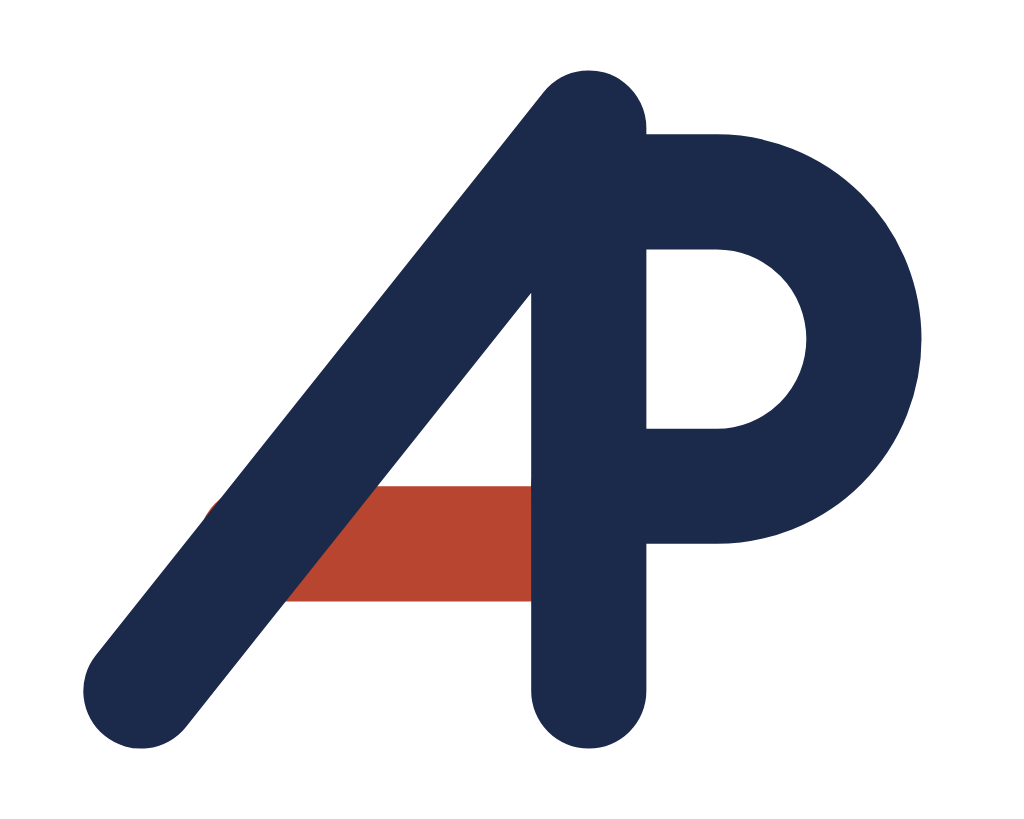
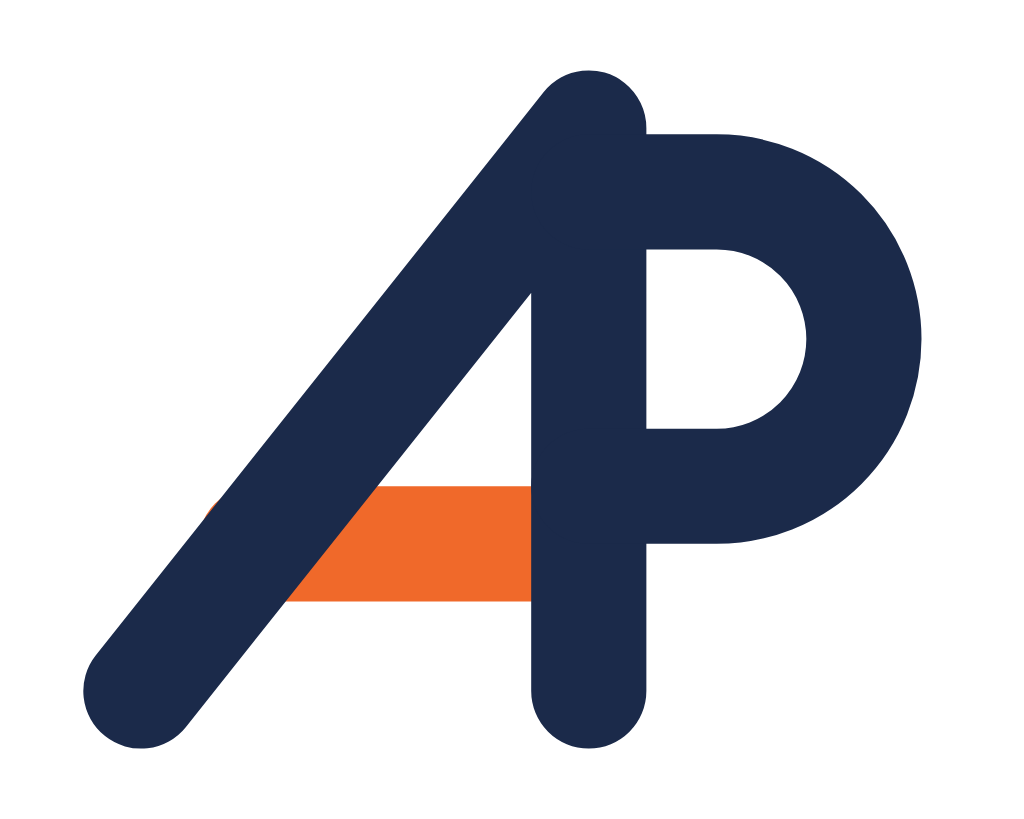
feat: rebranding de color (rojo ladrillo → naranja) y selector de idioma con desplegable
Primera parte de la Fase 5, acotada a header + logo + selector de idioma,
según el mockup de referencia. El resto de las páginas queda para
siguientes iteraciones.

Color:
- app/globals.css: --color-accent pasa de #B8452F a #BD4109 (fondo de
  botones), y --color-accent-ink de #D9764F a #F0692A (texto de acento
  sobre fondo oscuro). Ambos valores verificados por fórmula WCAG antes
  de fijarlos, no a ojo: accent sobre paper 4.66:1, bone sobre accent
  4.95:1, accent-ink sobre carbon 5.96:1 — los tres pasan AA para texto
  normal. accent sobre carbon (3.61:1) sigue sin valer como texto, mismo
  motivo que ya obligaba a la distinción accent/accent-ink con el rojo.
- qa/build-brand.mjs: BRICK renombrado a ACCENT, valor actualizado.
  Logo regenerado (npm run build:brand && npm run export:brand) — los 6
  SVG, el favicon, el apple-icon y los 12 PNG de public/brand/png/ vienen
  todos de la misma fuente, ninguno se retocó a mano.
- components/BrandLogo.tsx: el travesaño ya no hardcodea un hex propio,
  lee var(--color-accent-ink) — un cambio de paleta futuro no debería
  volver a tocar este archivo.
- docs/brand/README.md: tabla de paleta y contrastes reescrita con los
  valores reales medidos, más una nota explícita de que accent y
  accent-ink no son intercambiables (uno es fondo de botón, el otro es
  texto sobre oscuro, y ninguno cumple el rol del otro).

Selector de idioma:
- De dos botones ES|EN en línea a un disparador (bandera + código) con
[…]

Changed region(s): [[0.2812, 0.58, 0.5312, 0.7326]]

diff --git a/components/LocaleSwitcher.tsx b/components/LocaleSwitcher.tsx
@@ -1,5 +1,6 @@
 "use client";
 
+import { useEffect, useRef, useState } from "react";
 import { useLocale, useTranslations } from "next-intl";
 import { usePathname, useRouter } from "@/i18n/navigation";
 import { useParams, useSearchParams } from "next/navigation";
@@ -7,11 +8,36 @@ import { routing, LOCALE_CODES, type AppLocale } from "@/i18n/routing";
 import { resolveLocalizedDestination } from "@/i18n/localized-destination";
 
 /**
+ * Filete de bandera en miniatura, para el selector de idioma.
+ *
+ * Reutiliza el mismo patrón reducido que `FlagRule.tsx` (cantón azul marino
+ * 2/5 del ancho + resto en el acento) en vez de una bandera realista con
+ * estrellas y franjas. Es la misma razón documentada allí: en la papelería de
+ * un contratista sin licencia ni seguro confirmados por escrito, un emblema
+ * con estrellas y barras se lee como acreditación oficial. La miniatura no
+ * distingue español de inglés a propósito — los dos son variantes de EE. UU.
+ * (`es-US` / `en-US`, no España ni México), así que no hay una bandera de
+ * país distinta que poner para cada uno sin mentir sobre el origen.
+ */
+function MiniFlag() {
+  return (
+    <span className="flex h-3 w-4 overflow-hidden rounded-[2px]" aria-hidden="true">
+      <span className="h-full w-[38%] bg-[#1B2A4A]" />
+      <span className="h-full flex-1 bg-accent-ink" />
+    </span>
+  );
+}
+
+/**
  * Cambia de idioma traduciendo el LUGAR actual, no volviendo al inicio.
  *
  * Preserva: la página equivalente, la misma entidad dinámica (con su slug
  * traducido), los filtros de la query string y el hash. La lógica vive en
  * `i18n/localized-destination.ts`; aquí solo se navega.
+ *
+ * Fase 5: pasa de dos botones ES|EN en línea a un desplegable con disparador
+ * (bandera + código) y una lista de opciones (bandera + nombre completo),
+ * pedido explícitamente en el rediseño visual.
  */
 export default function LocaleSwitcher() {
   const locale = useLocale() as AppLocale;
@@ -23,7 +49,38 @@ export default function LocaleSwitcher() {
   // resuelta: el slug real hay que sacarlo de los params de la ruta.
   const routeParams = useParams();
 
+  const [open, setOpen] = useState(false);
+  const containerRef = useRef<HTMLDivElement>(null);
+  const triggerRef = useRef<HTMLButtonElement>(null);
+
+  // Cierra al hacer clic fuera del componente.
+  useEffect(() => {
+    if (!open) return;
+    const onPointerDown = (e: PointerEvent) => {
+      if (containerRef.current && !containerRef.current.contains(e.target as Node)) {
+        setOpen(false);
+      }
+    };
+    document.addEventListener("pointerdown", onPointerDown);
+    return () => document.removeEventListener("pointerdown", onPointerDown);
+  }, [open]);
+
+  // Escape cierra y devuelve el foco al disparador — mismo patrón que
+  // `MobileMenu`, a la escala de un menú de dos opciones.
+  useEffect(() => {
+    if (!open) return;
+    const onKeyDown = (e: KeyboardEvent) => {
+      if (e.key === "Escape") {
+        setOpen(false);
+        triggerRef.current?.focus();
+      }
+    };
+    document.addEventListener("keydown", onKeyDown);
+    return () => document.removeEventListener("keydown", onKeyDown);
+  }, [open]);
+
   const switchTo = (target: AppLocale) => {
+    setOpen(false);
     if (target === locale) return;
 
     const rawSlug = routeParams?.slug;
@@ -68,41 +125,54 @@ export default function LocaleSwitcher() {
   };
 
   return (
-    <div
-      role="group"
-      aria-label={t("languageSwitcherLabel")}
-      className="flex items-center overflow-hidden rounded-full border border-bone/30 font-mono text-xs uppercase tracking-wider text-bone"
-    >
-      {routing.locales.map((l) => {
-        const isCurrent = l === locale;
-        return (
-          <button
-            key={l}
-            type="button"
-            onClick={() => switchTo(l)}
-            aria-current={isCurrent ? "true" : undefined}
-            /*
-             * El nombre accesible dice qué hace el botón, no solo el código:
-             * "EN" a secas no comunica si es el idioma actual o el destino.
-             *
-             * El nombre del idioma se resuelve como clave anidada, NO con un
-             * `select` de ICU: los selectores ICU no admiten guiones, así que
-             * `{lang, select, es-US {...}}` lanzaba INVALID_MESSAGE en todas
-             * las páginas. Como clave de objeto, `es-US` sí es válido.
-             */
-            aria-label={
-              isCurrent
-                ? t("languageCurrent", { name: t(`languageName.${l}`) })
-                : t("languageSwitchTo", { name: t(`languageName.${l}`) })
-            }
-            className={`flex min-h-[44px] min-w-[44px] items-center justify-center px-3 transition-colors ${
-              isCurrent ? "bg-bone text-carbon" : "hover:bg-bone/10"
-            }`}
-          >
-            {LOCALE_CODES[l].toUpperCase()}
-          </button>
-        );
-      })}
+    <div ref={containerRef} className="relative">
+      <button
+        ref={triggerRef}
+        type="button"
+        onClick={() => setOpen((o) => !o)}
+        aria-haspopup="listbox"
+        aria-expanded={open}
+        aria-label={t("languageSwitcherLabel")}
+        className="flex min-h-[44px] items-center gap-2 rounded-full border border-bone/30 px-3 font-mono text-xs uppercase tracking-wider text-bone transition-colors hover:bg-bone/10"
+      >
+        <MiniFlag />
+        {LOCALE_CODES[locale].toUpperCase()}
+        {/* Chevron: gira al abrir, puramente decorativo. */}
+        <svg
+          viewBox="0 0 12 12"
+          aria-hidden="true"
+          className={`h-3 w-3 transition-transform ${open ? "rotate-180" : ""}`}
+        >
+          <path d="M2.5 4.5 6 8l3.5-3.5" stroke="currentColor" strokeWidth="1.4" fill="none" strokeLinecap="round" strokeLinejoin="round" />
+        </svg>
+      </button>
+
+      {open ? (
+        <div
+          role="listbox"
+          aria-label={t("languageSwitcherLabel")}
+          className="absolute right-0 top-[calc(100%+0.5rem)] z-50 min-w-[9rem] overflow-hidden rounded-lg border border-bone/20 bg-carbon-raised shadow-lg"
+        >
+          {routing.locales.map((l) => {
+            const isCurrent = l === locale;
+            return (
+              <button
+                key={l}
+                type="button"
+                role="option"
+                aria-selected={isCurrent}
+                onClick={() => switchTo(l)}
+                className={`flex min-h-[44px] w-full items-center gap-3 px-4 text-left text-sm transition-colors ${
+                  isCurrent ? "bg-bone/10 text-bone" : "text-bone/85 hover:bg-bone/10"
+                }`}
+              >
+                <MiniFlag />
+                {t(`languageName.${l}`)}
+              </button>
+            );
+          })}
+        </div>
+      ) : null}
     </div>
   );
 }

diff --git a/components/BrandLogo.tsx b/components/BrandLogo.tsx
@@ -38,9 +38,11 @@ interface BrandLogoProps {
  * Isotipo. Sin `width`/`height` fijos: la altura la fija el contenedor y el
  * `viewBox` mantiene la proporción, así el símbolo nunca se deforma.
  *
- * La A y el cuenco heredan `currentColor`; solo el travesaño conserva el rojo
- * de marca, que es la única nota de color que sobrevive a la inversión sobre
- * fondo oscuro.
+ * La A y el cuenco heredan `currentColor`; solo el travesaño conserva el
+ * naranja de marca (Fase 5: reemplaza al rojo ladrillo), que es la única
+ * nota de color que sobrevive a la inversión sobre fondo oscuro. El valor
+ * viene de `--color-accent-ink` (app/globals.css) en vez de un hex propio,
+ * para que un cambio de paleta futuro no tenga que tocar este archivo.
  *
  * Es TRAZO, no relleno: `fill="none"` con `strokeWidth` y remates redondos.
  * Quitar cualquiera de esos tres atributos no rompe nada visiblemente en el
@@ -67,9 +69,9 @@ function Mark({ size, accent = true }: { size: number; accent?: boolean }) {
         allí, se toca aquí — y al revés, esto no se toca sin tocar allí.
 
         El travesaño va PRIMERO: la riostra de la A pasa por encima y deja la
-        diagonal continua, con el rojo visible solo en el vano.
+        diagonal continua, con el naranja visible solo en el vano.
       */}
-      <path d="M20 42.5 H41.5" stroke={accent ? "#B8452F" : "currentColor"} />
+      <path d="M20 42.5 H41.5" stroke={accent ? "var(--color-accent-ink)" : "currentColor"} />
       <path d="M11 54 L46 10 V54" />
       <path d="M46 15 H56 A11.5 11.5 0 0 1 56 38 H46" />
     </svg>

diff --git a/app/globals.css b/app/globals.css
@@ -17,17 +17,26 @@
   --color-muted: #626963;
   --color-line: rgb(24 26 24 / 16%);
   --color-bone: #f8f6f0;
-  --color-accent: #b8452f;
-  --color-accent-hover: #9d3826;
+  --color-accent: #bd4109;
+  --color-accent-hover: #a13708;
   --color-success: #2f6b50;
   --color-error: #a83232;
 
   /*
-   * accent (#B8452F) sobre paper = 4.65:1 -> vale como texto normal.
-   * accent sobre carbon = 3.46:1 -> NO vale como texto (falla 4.5:1).
-   * accent-ink es la variante segura para texto sobre superficies oscuras.
+   * Fase 5 — rebranding de color (rojo ladrillo #B8452F → naranja).
+   * Valores medidos, no estimados a ojo contra el mockup de referencia:
+   *
+   * accent (#BD4109) sobre paper       = 4.66:1 -> vale como texto normal.
+   * accent (#BD4109) sobre carbon      = 3.61:1 -> NO vale como texto.
+   * bone sobre accent (fondo de botón) = 4.95:1 -> vale, texto claro en botón sólido.
+   * accent-ink sobre carbon            = 5.96:1 -> vale como texto normal.
+   *
+   * accent-ink es la variante viva para texto de acento sobre superficies
+   * oscuras (eyebrows, cifras, subrayados); accent es el tono profundo para
+   * fondos de botón sólido — el mismo naranja no puede cumplir los dos
+   * roles con fondo oscuro persistente, igual que antes con el rojo ladrillo.
    */
-  --color-accent-ink: #d9764f;
+  --color-accent-ink: #f0692a;
 
   --font-display: var(--font-space-grotesk), "Space Grotesk", sans-serif;
   --font-body: var(--font-plex-sans), "IBM Plex Sans", sans-serif;

diff --git a/docs/brand/README.md b/docs/brand/README.md
@@ -94,10 +94,10 @@ Tres decisiones que no son arbitrarias:
    versión maciza —allí era `y = 40`— traducida a ejes.
 
 El travesaño se dibuja **antes** que la A, de modo que la riostra pasa por
-encima: la diagonal queda continua y el rojo se ve solo en el vano, que es
+encima: la diagonal queda continua y el naranja se ve solo en el vano, que es
 donde el tirante realmente trabaja. Su extremo derecho muere en el borde
 izquierdo del montante en vez de cruzarlo; metido dentro, dejaría una mancha
-roja en medio del azul.
+de color en medio del azul.
 
 #### El tamaño favicon manda
 
@@ -138,10 +138,17 @@ el `<title>` de cada página.
 
 ## Paleta
 
+**Fase 5 (septiembre de 2026):** el acento pasa de rojo ladrillo a naranja.
+Es un cambio de identidad, no un retoque — se actualizó a la vez en el
+sistema de diseño (`app/globals.css`), el generador del logotipo
+(`qa/build-brand.mjs`) y este documento, para que ninguno quede desfasado
+respecto a los otros dos.
+
 | Uso | Nombre | HEX | RGB | CMYK aprox. |
 |---|---|---|---|---|
 | Principal | Azul marino | `#1B2A4A` | 27, 42, 74 | 89 / 74 / 34 / 21 |
-| Acento | Rojo ladrillo | `#B8452F` | 184, 69, 47 | 20 / 84 / 91 / 9 |
+| Acento (fondo sólido) | Naranja quemado | `#BD4109` | 189, 65, 9 | 0 / 66 / 95 / 26 |
+| Acento vivo (texto sobre oscuro) | Naranja | `#F0692A` | 240, 105, 42 | 0 / 56 / 83 / 6 |
 | Fondo claro | Marfil cálido | `#F2EFE8` | 242, 239, 232 | 4 / 4 / 8 / 0 |
 | Neutro | Gris acero | `#5A6472` | 90, 100, 114 | 65 / 52 / 40 / 12 |
 | Fondo oscuro | Carbón | `#121412` | 18, 20, 18 | 74 / 66 / 70 / 84 |
@@ -149,19 +156,35 @@ el `<title>` de cada página.
 Los valores CMYK son **aproximaciones para orientar a imprenta**, no perfiles
 calibrados. Antes de tirar papelería, pida una prueba de color impresa.
 
-**Máximo dos colores principales y un neutro por pieza.** El rojo es acento:
-si ocupa más superficie que el azul, la pieza está mal.
+**Máximo dos colores principales y un neutro por pieza.** El naranja es
+acento: si ocupa más superficie que el azul, la pieza está mal.
+
+**Dos tonos de naranja, no uno, y no son intercambiables.** El acento sólido
+(`#BD4109`) es para fondos de botón con texto claro encima — es demasiado
+oscuro para leerse bien como texto sobre fondo oscuro. El acento vivo
+(`#F0692A`) es para texto de marca sobre superficies oscuras — cifras,
+eyebrows, el travesaño del logotipo — y es demasiado claro para dar
+contraste suficiente como fondo de botón. Usar el vivo como fondo o el
+sólido como texto sobre oscuro es el error más fácil de cometer con esta
+paleta.
 
 ### Contrastes medidos
 
+Valores calculados por fórmula WCAG (luminancia relativa sRGB), no
+estimados a ojo — mismo criterio que exige `app/globals.css`.
+
 | Combinación | Ratio | Uso |
 |---|---|---|
-| Azul marino sobre marfil | 12,4 : 1 | Texto y logotipo |
-| Rojo ladrillo sobre marfil | 4,7 : 1 | Acento, texto normal |
-| Rojo ladrillo sobre carbón | 4,6 : 1 | Acento sobre oscuro |
-| Marfil sobre azul marino | 12,4 : 1 | Logotipo invertido |
+| Azul marino sobre marfil | 12,38 : 1 | Texto y logotipo |
+| Naranja sólido sobre marfil | 4,66 : 1 | Acento, texto normal sobre fondo claro |
+| Naranja vivo sobre carbón | 5,96 : 1 | Acento, texto normal sobre fondo oscuro |
+| Marfil/bone sobre naranja sólido | 4,95 : 1 | Texto claro en botón de fondo naranja |
+| Marfil sobre azul marino | 12,38 : 1 | Logotipo invertido |
 
-**Nunca** rojo ladrillo sobre azul marino: 2,7 : 1, ilegible.
+**Nunca** naranja sólido sobre azul marino: 2,66 : 1, ilegible. El naranja
+vivo sobre azul marino sí pasa (4,58 : 1), pero esa combinación no se usa
+en ningún lugar del sitio — no la introduzca sin volver a medir el contexto
+real donde aparecería.
 
 ---
 
